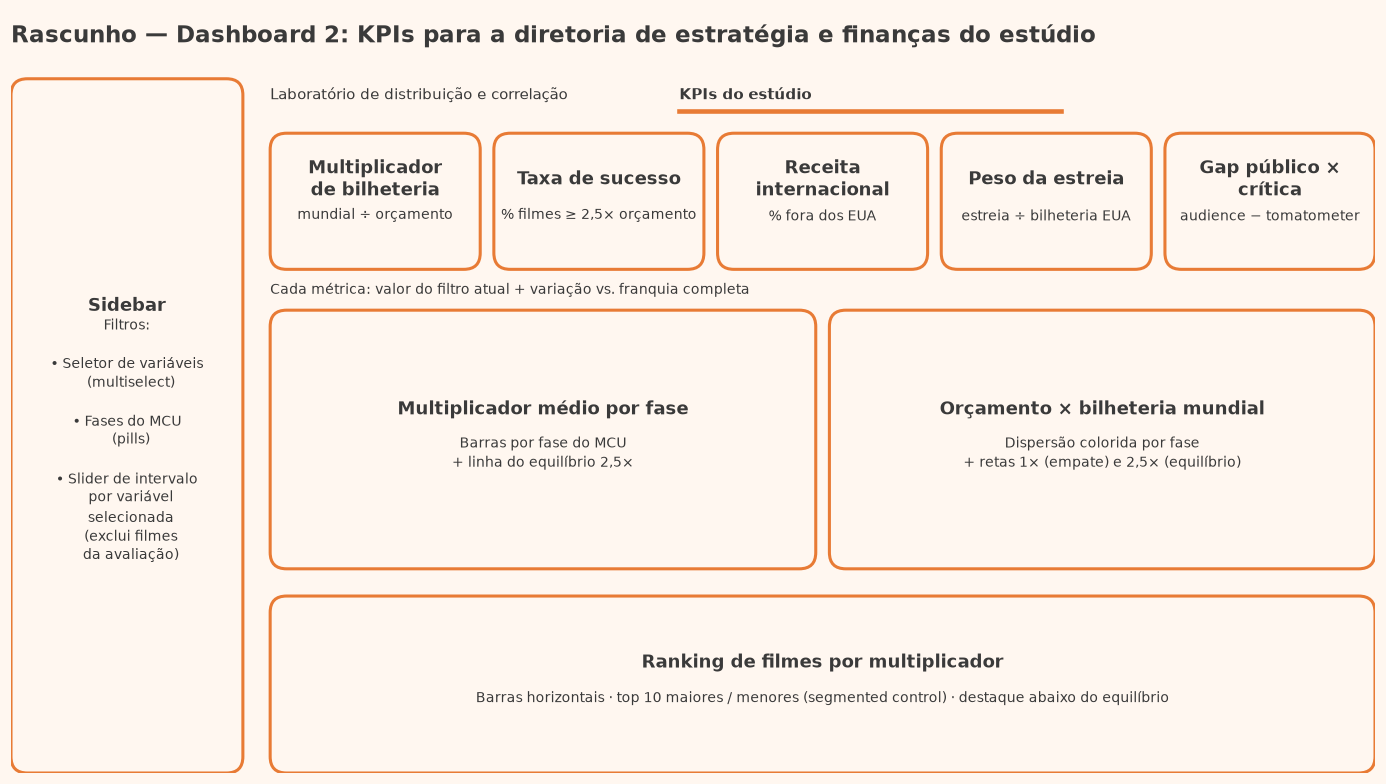
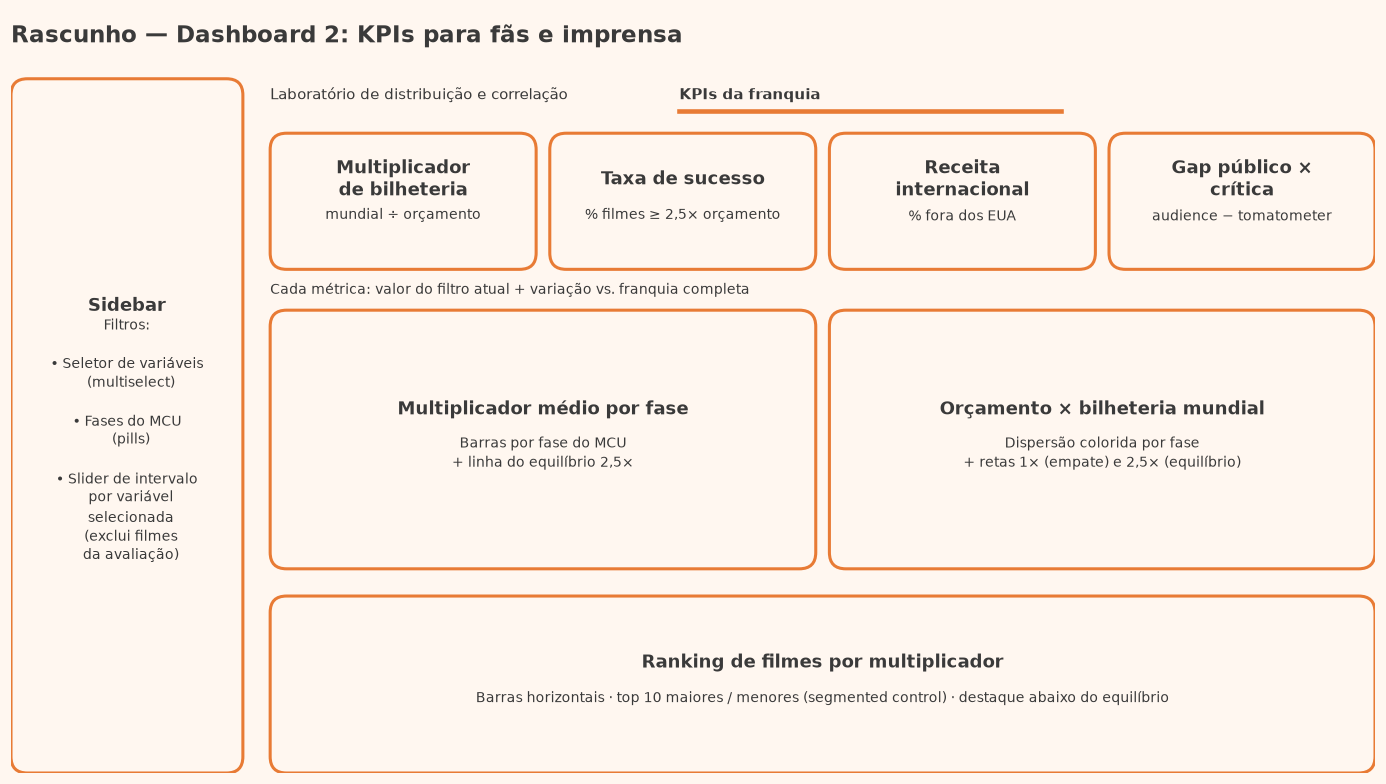
dashboard 2: métricas e público-alvo escolhidos (fãs e imprensa, 4 métricas)

Changed region(s): [[0.2172, 0.1531, 0.9618, 0.3673], [0.3413, 0.0306, 0.8066, 0.0612], [0.5274, 0.0918, 0.5895, 0.1531]]

diff --git a/app.py b/app.py
@@ -55,7 +55,6 @@ df = load_data().copy()
 df[VARS_FINANCEIRAS] = df[VARS_FINANCEIRAS] / 1e6
 df["multiplicador"] = df["worldwide_box_office"] / df["production_budget"]
 df["internacional"] = df["worldwide_box_office"] - df["domestic_box_office"]
-df["peso_estreia"] = df["opening_weekend"] / df["domestic_box_office"]
 df["gap_publico_critica"] = df["audience_score"] - df["tomato_meter"]
 
 FASES = sorted(df["mcu_phase"].unique())
@@ -123,7 +122,7 @@ if len(df_filtrado) < 3:
     st.stop()
 
 aba_laboratorio, aba_kpis = st.tabs(
-    [":material/science: Laboratório de distribuição e correlação", ":material/monitoring: KPIs do estúdio"]
+    [":material/science: Laboratório de distribuição e correlação", ":material/monitoring: KPIs da franquia"]
 )
 
 # [IA] Claude Code – Dashboard 1: heatmap de correlação, histogramas por variável e dispersão de um par
@@ -242,12 +241,12 @@ with aba_laboratorio:
                 st.caption(f"Correlação de {metodo.capitalize()} entre o par: r = {fmt_num(r, 2)}")
 
 # [IA] Claude Code – Dashboard 2: cálculo e exibição das métricas, gráfico por fase, dispersão e ranking
-# Dashboard 2: KPIs para a diretoria de estratégia e finanças do estúdio
+# Dashboard 2: KPIs para fãs e imprensa que acompanham a franquia
 with aba_kpis:
-    st.subheader("Saúde financeira da franquia")
+    st.subheader("Como vão os filmes da Marvel?")
     st.caption(
-        "Para a diretoria de estratégia e finanças do estúdio: retorno, risco e dependência de mercado "
-        "dos filmes selecionados. As variações comparam com a franquia completa (38 filmes)."
+        "Para fãs e imprensa: quanto os filmes faturam, quantos deram certo, de onde vem o público "
+        "e se público e crítica concordam. As variações comparam com a franquia completa (38 filmes)."
     )
 
     def kpis(dados):
@@ -255,7 +254,6 @@ with aba_kpis:
             "multiplicador": dados["multiplicador"].mean(),
             "sucesso": (dados["multiplicador"] >= BREAK_EVEN).mean() * 100,
             "internacional": dados["internacional"].sum() / dados["worldwide_box_office"].sum() * 100,
-            "estreia": dados["peso_estreia"].median() * 100,
             "gap": dados["gap_publico_critica"].mean(),
         }
 
@@ -292,18 +290,6 @@ with aba_kpis:
             delta_description="vs. franquia",
             delta_color="off",
             help="Parcela da bilheteria mundial vinda de fora dos EUA. Mede a dependência do mercado internacional.",
-            border=True,
-        )
-        st.metric(
-            "Peso da estreia",
-            f"{fmt_num(atual['estreia'], 0)}%",
-            delta("estreia", " p.p.", 0),
-            delta_description="vs. franquia",
-            delta_color="inverse",
-            help=(
-                "Mediana de fim de semana de estreia ÷ bilheteria nos EUA. Quanto maior, mais o filme depende "
-                "da primeira semana e menos do boca a boca (sinal de risco)."
-            ),
             border=True,
         )
         st.metric(

diff --git a/prompts/declaracao-uso-ia.md b/prompts/declaracao-uso-ia.md
@@ -33,6 +33,7 @@ Prompts na ordem em que foram enviados (texto original, só com a ortografia aju
 16. "Por favor, preencha com o que é devido da atividade na aba de prompts." Pedi o preenchimento final desta declaração e do template `layout-skeleton-prompt.md` com os dados do projeto.
 17. "Por favor." Pedi que a IA escrevesse `entregas/justificativa-metricas.md`, o que foi feito e enviado ao repositório.
 18. Enviei à IA as diretrizes de uso de IA da atividade. A IA apontou que escolher e justificar as métricas pela IA é proibido. Respondi "apenas faça como você quiser", e a IA voltou a justificativa para o modelo vazio e marcou o código com `# [IA]`.
+19. "Faça primeiro as modificações, depois você me explica." A IA me perguntou quais métricas e qual público-alvo eu queria. Escolhi as 4 métricas e fãs e imprensa, e a IA ajustou o `app.py`, o rascunho do Dashboard 2 e o README.
 
 Durante a sessão também respondi às perguntas da IA: escolhi manter os commits do modelo e adicionar três commits meus, defini o nome do autor dos commits e autorizei sobrescrever o repositório no GitHub (o push com force eu mesmo rodei no terminal).
 
@@ -42,7 +43,7 @@ Durante a sessão também respondi às perguntas da IA: escolhi manter os commit
   - Célula final do notebook que exporta `data/clean/dataset.csv` repetindo as decisões da minha EDA (remoção das séries de TV, outliers mantidos, alvo `resultado_financeiro`, faixas de década e orçamento).
   - `app.py` com sidebar (seletor de variáveis, filtro de fases e um slider de intervalo por variável) e duas abas.
   - Dashboard 1: heatmap com Spearman como padrão (coerente com o Shapiro-Wilk da EDA, em que nenhuma variável foi normal), um histograma por variável com média e mediana e dispersão de um par de variáveis.
-  - Código do Dashboard 2 (cálculo das métricas e 3 visuais). O público-alvo (diretoria de estratégia e finanças do estúdio) e as 5 métricas (multiplicador de bilheteria, taxa de sucesso ≥ 2,5×, receita internacional, peso da estreia, gap público × crítica) foram propostos pela IA, porque eu não tinha definido antes. A escolha final e a justificativa em `entregas/justificativa-metricas.md` são minhas.
+  - Código do Dashboard 2 (cálculo das métricas e 3 visuais). A IA propôs inicialmente um público-alvo (diretoria do estúdio) e 5 métricas, porque eu não tinha definido antes. Depois de ler as diretrizes, fiz a minha escolha: público-alvo fãs e imprensa e 4 métricas (multiplicador de bilheteria, taxa de sucesso ≥ 2,5×, receita internacional, gap público × crítica). A justificativa em `entregas/justificativa-metricas.md` é minha.
   - `@st.cache_data` no `src/data_loader.py` e `showErrorDetails = "none"` no `.streamlit/config.toml`.
   - Rascunhos dos dois dashboards em `entregas/`.
 - **Modificado:**
@@ -51,6 +52,7 @@ Durante a sessão também respondi às perguntas da IA: escolhi manter os commit
 - **Rejeitado:**
   - A primeira versão do app foi descartada (revertida) para retomar a atividade seguindo o passo a passo do README a partir do dataset tratado.
   - O dataset Heart Disease do repositório-modelo foi substituído pelo MCU Box Office, que é o dataset da minha EDA.
+  - A métrica "peso da estreia" proposta pela IA foi removida por escolha minha, e o público-alvo mudou de diretoria do estúdio para fãs e imprensa.
   - A justificativa das métricas escrita pela IA foi descartada (o arquivo voltou ao modelo vazio), porque as diretrizes proíbem que a IA escolha ou justifique as métricas do Dashboard 2.
 
 ## Skill oficial do Streamlit

diff --git a/README.md b/README.md
@@ -18,7 +18,7 @@ Dashboards construídos a partir da EDA do dataset [Marvel Cinematic Universe Bo
 | Aba | Público | Conteúdo |
 | --- | --- | --- |
 | Laboratório de distribuição e correlação | Analistas | Heatmap de correlação (Spearman, Pearson ou Kendall), um histograma por variável selecionada e dispersão de um par de variáveis |
-| KPIs do estúdio | Diretoria de estratégia e finanças do estúdio | 5 métricas próprias (multiplicador de bilheteria, taxa de sucesso ≥ 2,5×, receita internacional, peso da estreia, gap público × crítica) e 3 visuais (multiplicador por fase, orçamento × bilheteria, ranking de filmes) |
+| KPIs da franquia | Fãs e imprensa que acompanham a franquia | 4 métricas próprias (multiplicador de bilheteria, taxa de sucesso ≥ 2,5×, receita internacional, gap público × crítica) e 3 visuais (multiplicador por fase, orçamento × bilheteria, ranking de filmes) |
 
 A barra lateral tem o seletor de variáveis, o filtro de fases e um slider de intervalo por variável selecionada, que exclui da avaliação os filmes fora da faixa. Os rascunhos de layout dos dois dashboards estão em [entregas/](entregas/).
 
